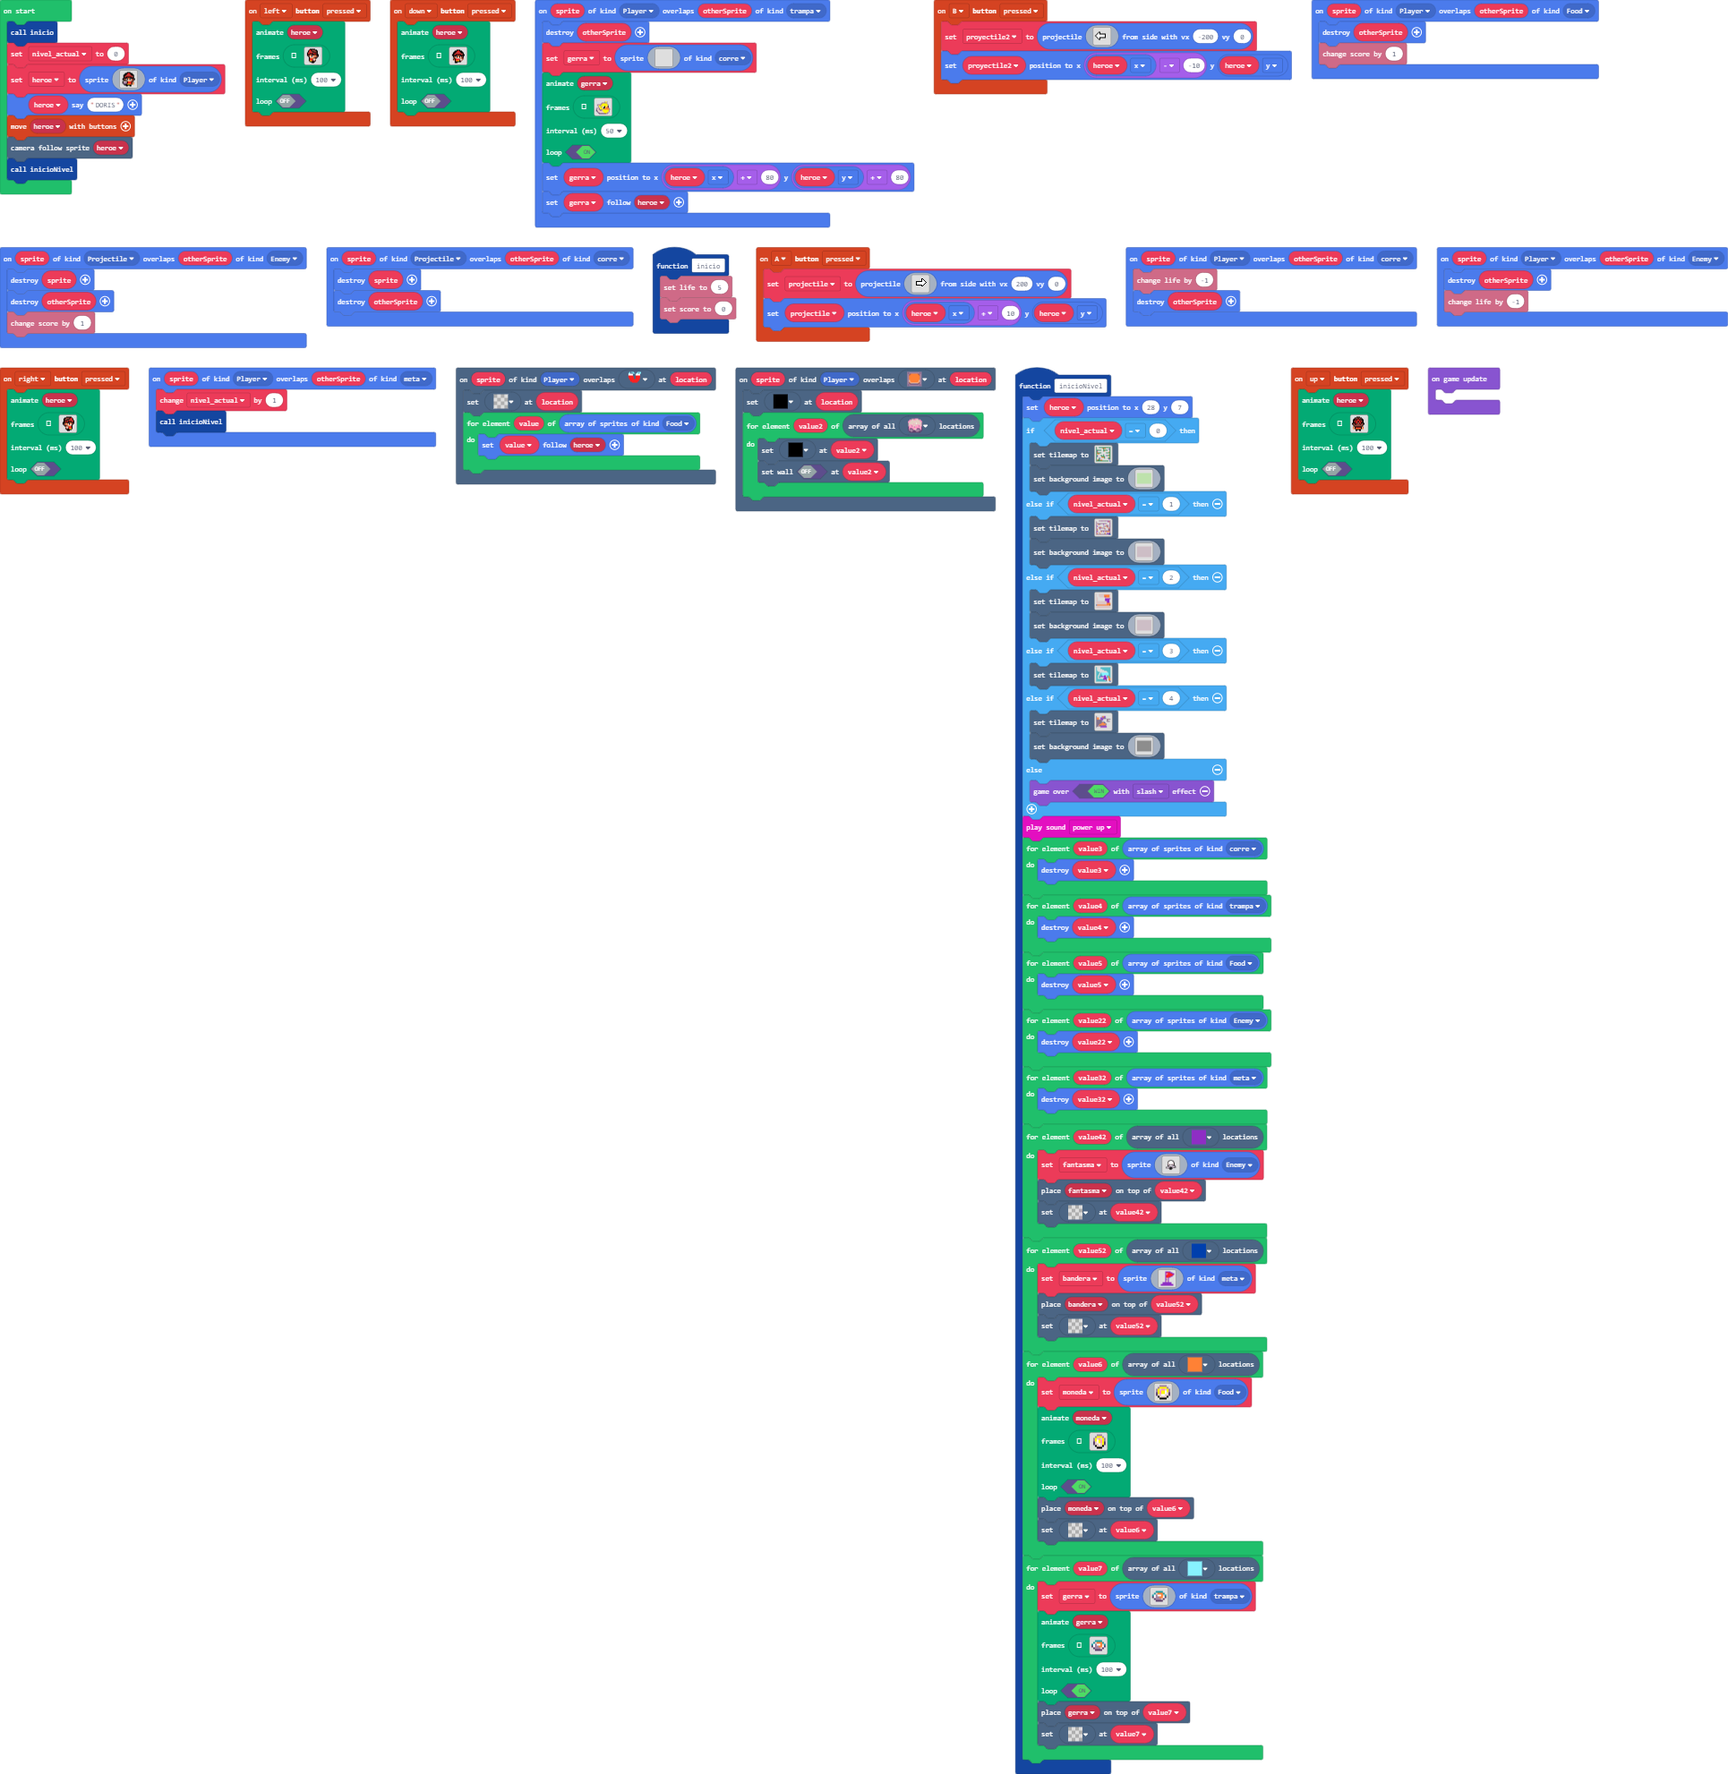
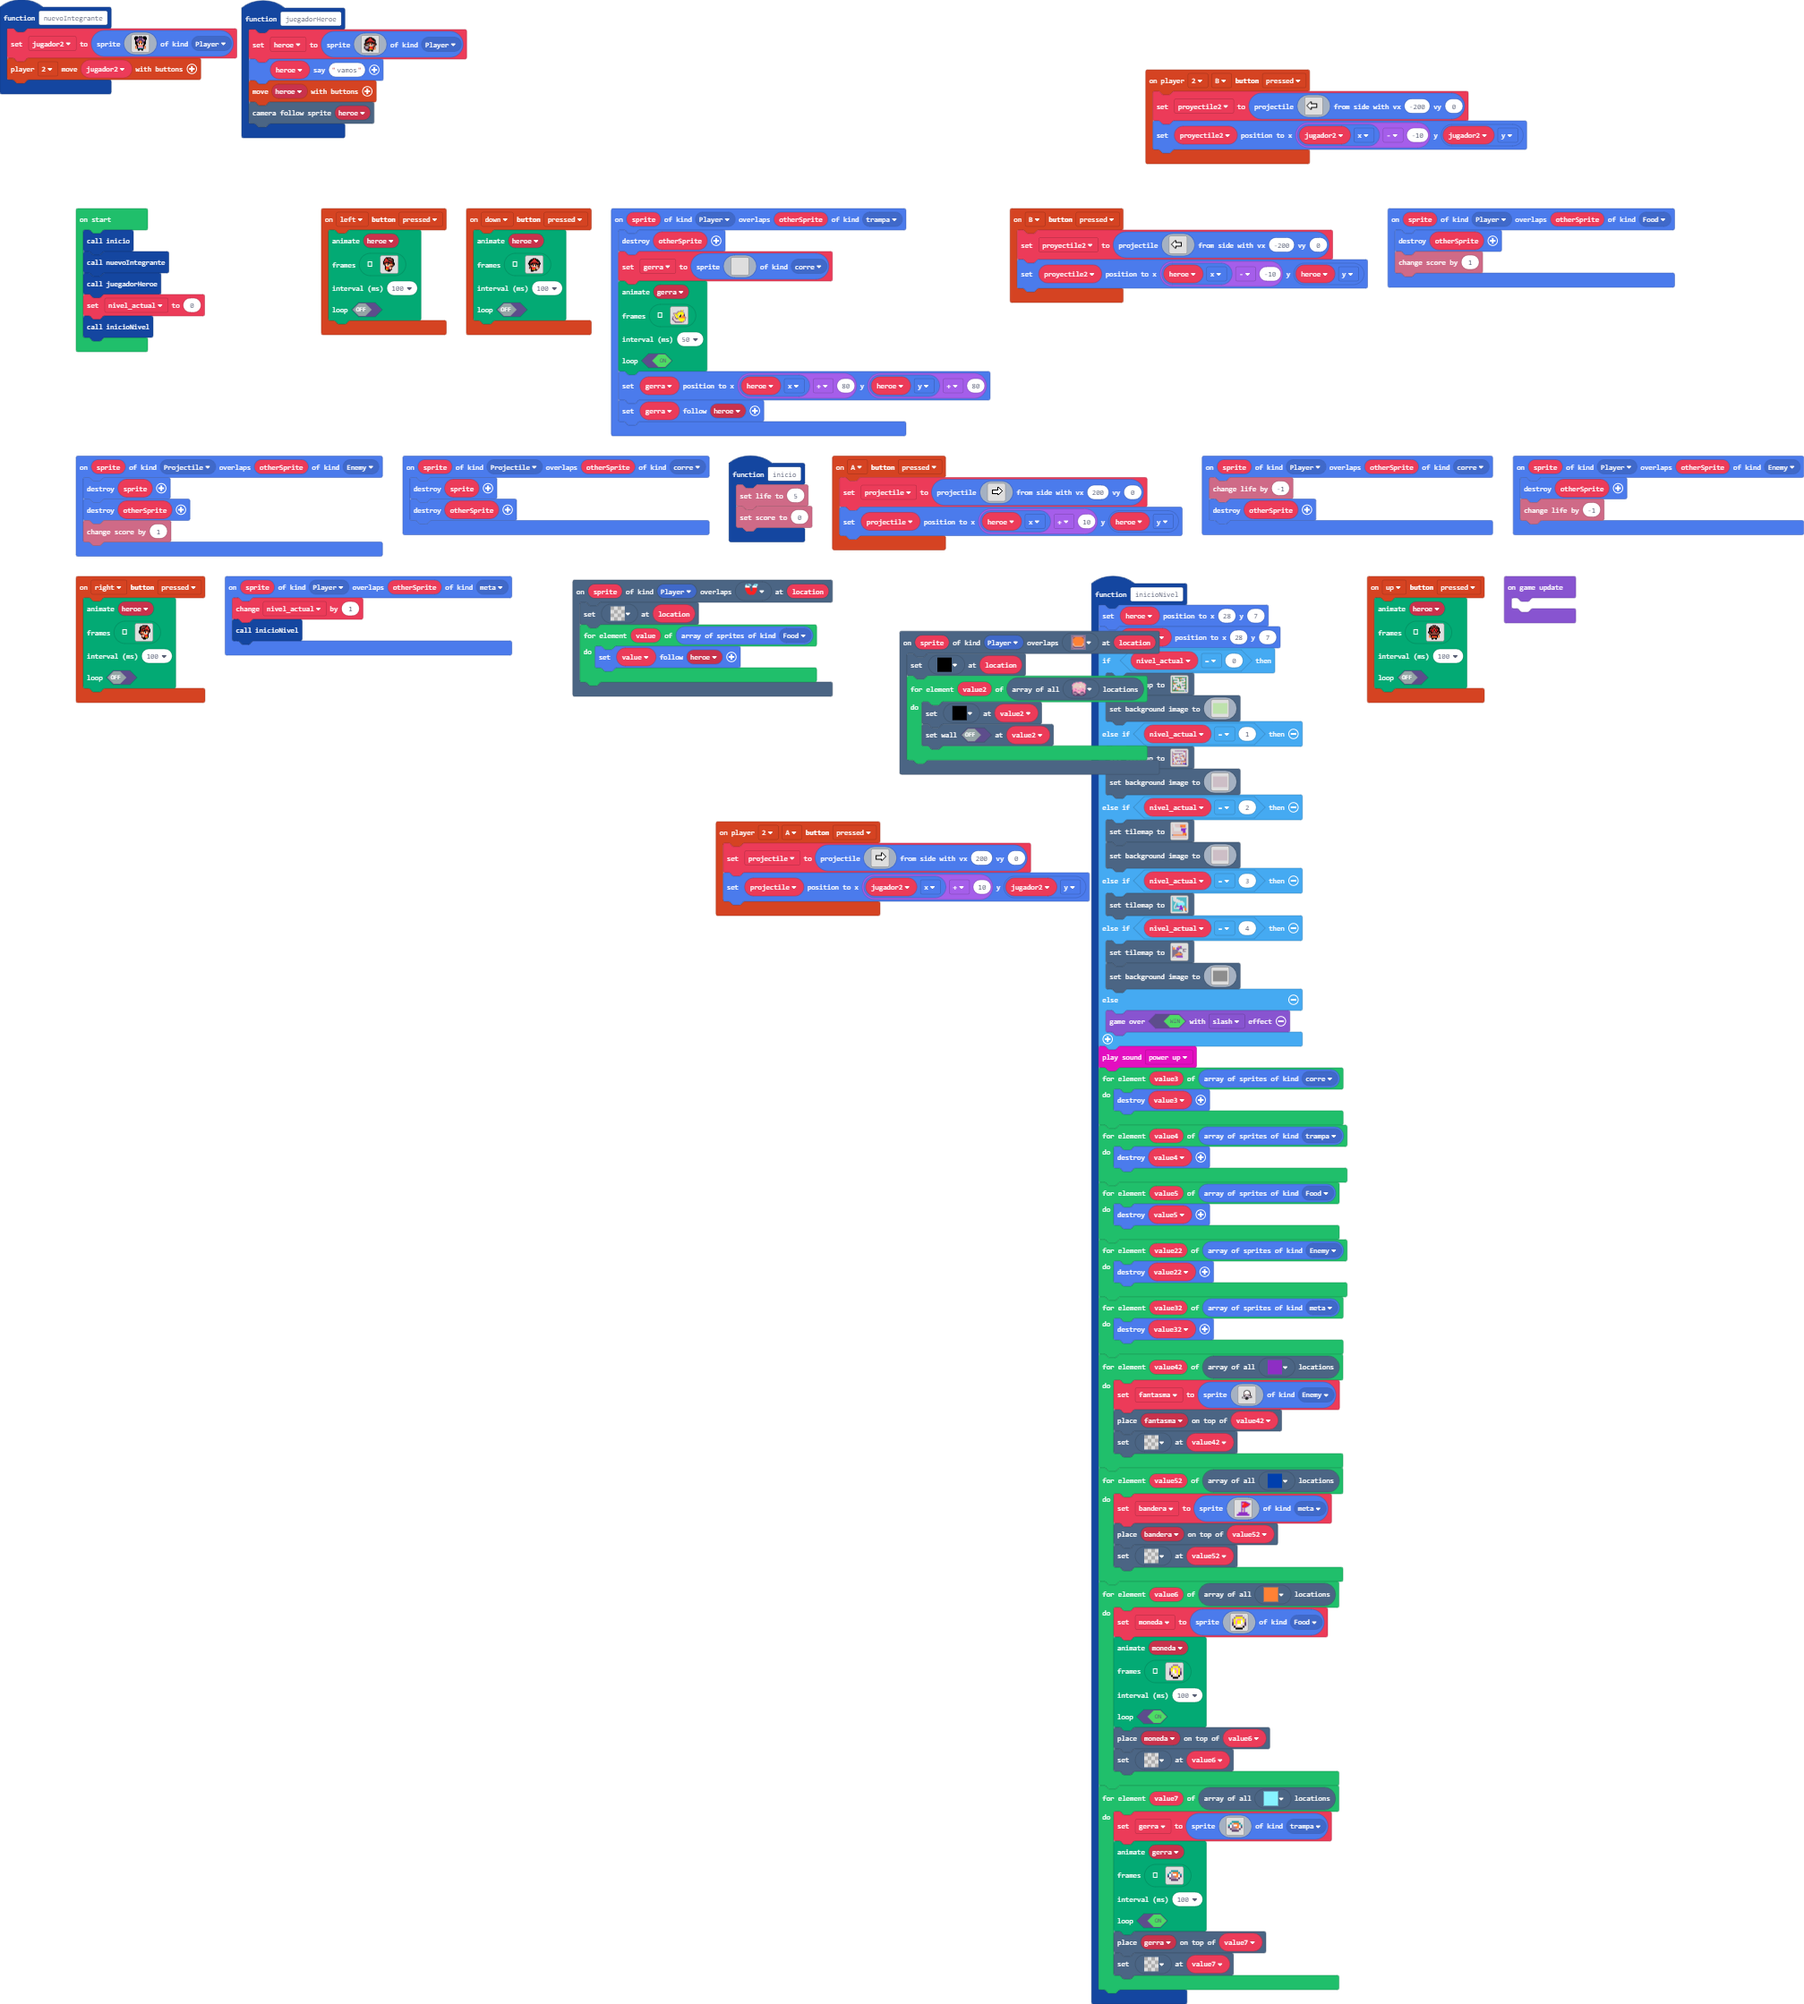
Update main.blocks, main.ts

Changed region(s): [[0.0, 0.0, 1.0, 1.0]]

diff --git a/main.ts b/main.ts
@@ -176,6 +176,50 @@ e e e e . . e e e e e e e e e .
 . . . . . . . . . . . . . . . . 
 `
 }
+function nuevoIntegrante () {
+    jugador2 = sprites.create(img`
+. f f f . f f f f . f f f . 
+f f f f f c c c c f f f f f 
+f f f f b c c c c b f f f f 
+f f f c 3 c c c c 3 c f f f 
+. f 3 3 c c c c c c 3 3 f . 
+. f c c c c 4 4 c c c c f . 
+. f f c c 4 4 4 4 c c f f . 
+. f f f b f 4 4 f b f f f . 
+. f f 4 1 f d d f 1 4 f f . 
+. . f f d d d d d d f f . . 
+. . e f e 4 4 4 4 e f e . . 
+. e 4 f b 3 3 3 3 b f 4 e . 
+. 4 d f 3 3 3 3 3 3 c d 4 . 
+. 4 4 f 6 6 6 6 6 6 f 4 4 . 
+. . . . f f f f f f . . . . 
+. . . . f f . . f f . . . . 
+`, SpriteKind.Player)
+    controller.player2.moveSprite(jugador2)
+}
+function juegadorHeroe () {
+    heroe = sprites.create(img`
+. . . . . . f f f f . . . . . . 
+. . . . f f f 2 2 f f f . . . . 
+. . . f f f 2 2 2 2 f f f . . . 
+. . f f f e e e e e e f f f . . 
+. . f f e 2 2 2 2 2 2 e e f . . 
+. . f e 2 f f f f f f 2 e f . . 
+. . f f f f e e e e f f f f . . 
+. f f e f b f 4 4 f b f e f f . 
+. f e e 4 1 f d d f 1 4 e e f . 
+. . f f f f d d d d d e e f . . 
+. f d d d d f 4 4 4 e e f . . . 
+. f b b b b f 2 2 2 2 f 4 e . . 
+. f b b b b f 2 2 2 2 f d 4 . . 
+. . f c c f 4 5 5 4 4 f 4 4 . . 
+. . . f f f f f f f f . . . . . 
+. . . . . f f . . f f . . . . . 
+`, SpriteKind.Player)
+    heroe.say("vamos")
+    controller.moveSprite(heroe)
+    scene.cameraFollowSprite(heroe)
+}
 controller.left.onEvent(ControllerButtonEvent.Pressed, function () {
     animation.runImageAnimation(
     heroe,
@@ -467,6 +511,27 @@ sprites.onOverlap(SpriteKind.Player, SpriteKind.Food, function (sprite, otherSpr
     otherSprite.destroy()
     info.changeScoreBy(1)
 })
+controller.player2.onButtonEvent(ControllerButton.A, ControllerButtonEvent.Pressed, function () {
+    projectile = sprites.createProjectileFromSide(img`
+. . . . . . . . . . . . . . . . 
+. . . . . . . . . . . . . . . . 
+. . . . . . . . . f f . . . . . 
+. . . . . . . . . f 1 f . . . . 
+. . . . . . . . . f 1 1 f . . . 
+. . . f f f f f f f 1 1 1 f . . 
+. . . f 1 1 1 1 1 1 1 1 1 1 f . 
+. . . f 1 1 1 1 1 1 1 1 1 f . . 
+. . . f 1 1 1 1 1 1 1 1 f . . . 
+. . . f f f f f f f 1 f . . . . 
+. . . . . . . . . f f . . . . . 
+. . . . . . . . . . . . . . . . 
+. . . . . . . . . . . . . . . . 
+. . . . . . . . . . . . . . . . 
+. . . . . . . . . . . . . . . . 
+. . . . . . . . . . . . . . . . 
+`, 200, 0)
+    projectile.setPosition(jugador2.x + 10, jugador2.y)
+})
 sprites.onOverlap(SpriteKind.Projectile, SpriteKind.Enemy, function (sprite, otherSprite) {
     sprite.destroy()
     otherSprite.destroy()
@@ -568,6 +633,27 @@ controller.right.onEvent(ControllerButtonEvent.Pressed, function () {
     false
     )
 })
+controller.player2.onButtonEvent(ControllerButton.B, ControllerButtonEvent.Pressed, function () {
+    proyectile2 = sprites.createProjectileFromSide(img`
+. . . . . . . . . . . . . . . . 
+. . . . . . . . . . . . . . . . 
+. . . . . . . . . . . . . . . . 
+. . . . f f . . . . . . . . . . 
+. . . f 1 f . . . . . . . . . . 
+. . f 1 1 f f f f f f f . . . . 
+. f 1 1 1 1 1 1 1 1 1 f . . . . 
+f 1 1 1 1 1 1 1 1 1 1 f . . . . 
+. f 1 1 1 1 1 1 1 1 1 f . . . . 
+. . f 1 1 f f f f f f f . . . . 
+. . . f 1 f . . . . . . . . . . 
+. . . . f f . . . . . . . . . . 
+. . . . . . . . . . . . . . . . 
+. . . . . . . . . . . . . . . . 
+. . . . . . . . . . . . . . . . 
+. . . . . . . . . . . . . . . . 
+`, -200, 0)
+    proyectile2.setPosition(jugador2.x - -10, jugador2.y)
+})
 sprites.onOverlap(SpriteKind.Player, SpriteKind.meta, function (sprite, otherSprite) {
     nivel_actual += 1
     inicioNivel()
@@ -587,6 +673,7 @@ scene.onOverlapTile(SpriteKind.Player, sprites.dungeon.buttonOrangeDepressed, fu
 })
 function inicioNivel () {
     heroe.setPosition(28, 7)
+    jugador2.setPosition(28, 7)
     if (nivel_actual == 0) {
         tiles.setTilemap(tiles.createTilemap(
[1 lines of base64/hex data omitted]
@@ -1467,30 +1554,12 @@ let projectile: Sprite = null
 let proyectile2: Sprite = null
 let gerra: Sprite = null
 let heroe: Sprite = null
+let jugador2: Sprite = null
 let nivel_actual = 0
 inicio()
+nuevoIntegrante()
+juegadorHeroe()
 nivel_actual = 0
-heroe = sprites.create(img`
-. . . . . . f f f f . . . . . . 
-. . . . f f f 2 2 f f f . . . . 
-. . . f f f 2 2 2 2 f f f . . . 
-. . f f f e e e e e e f f f . . 
-. . f f e 2 2 2 2 2 2 e e f . . 
-. . f e 2 f f f f f f 2 e f . . 
-. . f f f f e e e e f f f f . . 
-. f f e f b f 4 4 f b f e f f . 
-. f e e 4 1 f d d f 1 4 e e f . 
-. . f f f f d d d d d e e f . . 
-. f d d d d f 4 4 4 e e f . . . 
-. f b b b b f 2 2 2 2 f 4 e . . 
-. f b b b b f 2 2 2 2 f d 4 . . 
-. . f c c f 4 5 5 4 4 f 4 4 . . 
-. . . f f f f f f f f . . . . . 
-. . . . . f f . . f f . . . . . 
-`, SpriteKind.Player)
-heroe.say("DORIS")
-controller.moveSprite(heroe)
-scene.cameraFollowSprite(heroe)
 inicioNivel()
 game.onUpdate(function () {
 	
